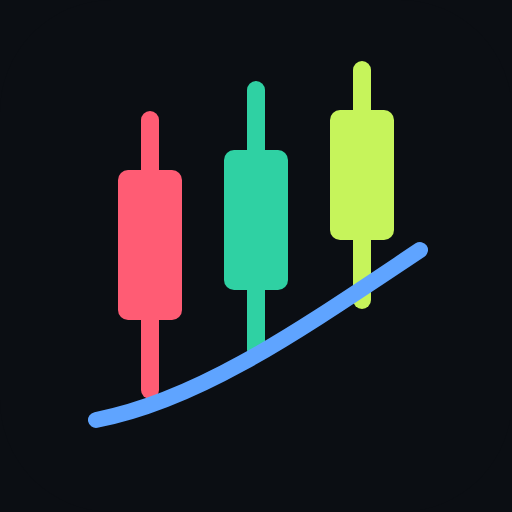
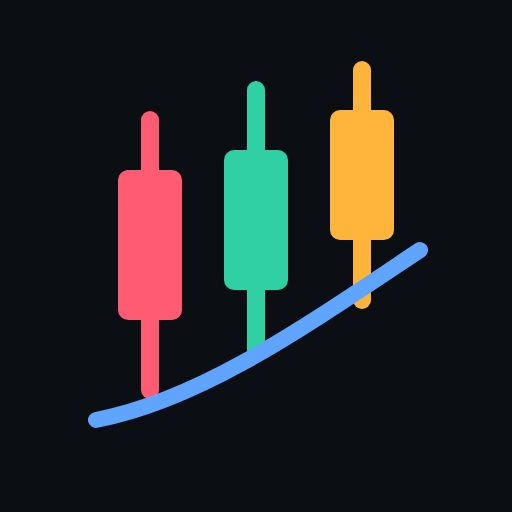
Terminal-amber accent, two-tap confirms instead of browser dialogs
Claude-Session: https://claude.ai/code/session_01AzD1ngALz3NvkMtRHuZZ69

Changed region(s): [[0.625, 0.0938, 0.7812, 0.625]]

diff --git a/src/ui/screens/Log.tsx b/src/ui/screens/Log.tsx
@@ -4,6 +4,7 @@ import { INSTRUMENTS, INSTRUMENT_ORDER, SYSTEM_ORDER } from '../../engine/types'
 import type { InstrumentId, SystemId } from '../../engine/types';
 import { LOTS } from '../../game/account';
 import { update, useGame } from '../../game/store';
+import { ConfirmButton } from '../common';
 import type { LiveTrade } from '../../game/store';
 
 const GATE_TRADES = 30;
@@ -64,14 +65,7 @@ export function Log() {
                 </div>
                 <div className="live-right">
                   <span className={t.r === null ? '' : t.r >= 0 ? 'up-text' : 'down-text'}>{t.r === null ? 'open' : `${t.r >= 0 ? '+' : ''}${t.r}R`}</span>
-                  <button
-                    className="link"
-                    onClick={() => {
-                      if (confirm('Delete this entry?')) update((st) => ({ live: st.live.filter((x) => x.id !== t.id) }));
-                    }}
-                  >
-                    delete
-                  </button>
+                  <ConfirmButton className="link" label="delete" confirmLabel="tap to delete" onConfirm={() => update((st) => ({ live: st.live.filter((x) => x.id !== t.id) }))} />
                 </div>
               </li>
             );

diff --git a/src/ui/screens/Stats.tsx b/src/ui/screens/Stats.tsx
@@ -7,6 +7,7 @@ import type { Library } from '../../data/load';
 import { money, valuePerUnit } from '../../game/account';
 import { systemProgress } from '../../game/progress';
 import { exportState, importState, resetAll, update, useGame } from '../../game/store';
+import { ConfirmButton } from '../common';
 import type { Mode } from '../../game/store';
 
 const MODE_NAMES: Record<Mode, string> = { spot: 'Spot it', replay: 'Replay', checklist: 'Checklist', place: 'Place it', quiz: 'Exam' };
@@ -182,14 +183,7 @@ export function Stats({ lib }: { lib: Library }) {
               }
             }}
           />
-          <button
-            className="btn danger"
-            onClick={() => {
-              if (confirm('Erase all progress, trades and the live log?')) resetAll();
-            }}
-          >
-            Reset everything
-          </button>
+          <ConfirmButton className="btn danger" label="Reset everything" confirmLabel="Tap again to erase all progress" onConfirm={resetAll} />
         </div>
         {msg ? <p className="hint">{msg}</p> : null}
       </section>

diff --git a/src/ui/Chart.tsx b/src/ui/Chart.tsx
@@ -111,8 +111,8 @@ export function Chart({ s, upto, digits, showDate, lines = [], marks = [], diver
     const e20 = line(css('--ema20'), 2);
     const e50 = line(css('--ema50'), 2);
     const e200 = line(css('--ema200'), 1, LineStyle.Dashed);
-    const shadeHi = line(css('--warn'), 2);
-    const shadeLo = line(css('--warn'), 2);
+    const shadeHi = line(css('--sys-session'), 2);
+    const shadeLo = line(css('--sys-session'), 2);
     const divPrice = line(css('--text'), 2, LineStyle.Dashed);
     const rsi = chart.addSeries(LineSeries, { color: css('--rsi'), lineWidth: 2, priceLineVisible: false, lastValueVisible: true, priceFormat: { type: 'price', precision: 0, minMove: 1 } }, 1);
     const divRsi = chart.addSeries(LineSeries, { color: css('--text'), lineWidth: 2, lineStyle: LineStyle.Dashed, priceLineVisible: false, lastValueVisible: false, crosshairMarkerVisible: false }, 1);

diff --git a/src/ui/common.tsx b/src/ui/common.tsx
@@ -198,3 +198,26 @@ export function Loading({ text = 'Loading chart…' }: { text?: string }) {
     </div>
   );
 }
+
+/** Two-tap confirm: browser confirm() dialogs are blocked in some hosts. */
+export function ConfirmButton({ className, label, confirmLabel, onConfirm }: { className: string; label: string; confirmLabel: string; onConfirm: () => void }) {
+  const [armed, setArmed] = useState(false);
+  useEffect(() => {
+    if (!armed) return;
+    const id = setTimeout(() => setArmed(false), 3000);
+    return () => clearTimeout(id);
+  }, [armed]);
+  return (
+    <button
+      className={armed ? `${className} armed` : className}
+      onClick={() => {
+        if (armed) {
+          setArmed(false);
+          onConfirm();
+        } else setArmed(true);
+      }}
+    >
+      {armed ? confirmLabel : label}
+    </button>
+  );
+}

diff --git a/src/styles.css b/src/styles.css
@@ -7,17 +7,18 @@
   --text: #eef2f7;
   --muted: #8792a2;
   --faint: #5b6575;
-  --accent: #c6f45b;
-  --accent-ink: #0b0e13;
+  /* Trading-terminal amber on graphite. Candles keep the market's own green/red. */
+  --accent: #ffb43c;
+  --accent-ink: #1a1206;
   --up: #2fd1a3;
-  --down: #ff5c74;
-  --warn: #ffc046;
+  --down: #ff4d6d;
+  --warn: #ffb43c;
   --ema20: #5fa4ff;
-  --ema50: #ff9f43;
+  --ema50: #ff7a59;
   --ema200: #5d6778;
   --rsi: #b18cff;
   --sys-ema: #5fa4ff;
-  --sys-sr: #ffc046;
+  --sys-sr: #5fd0e0;
   --sys-rsi: #b18cff;
   --sys-session: #ff7ab8;
   --r: 18px;
@@ -1280,4 +1281,12 @@ b {
     animation: none !important;
     transition: none !important;
   }
+}
+.armed {
+  color: var(--down);
+  font-weight: 700;
+}
+:focus-visible {
+  outline: 2px solid var(--accent);
+  outline-offset: 2px;
 }

diff --git a/src/ui/overlays.ts b/src/ui/overlays.ts
@@ -11,7 +11,7 @@ export function revealOverlays(e: Evaluation | null, out: Outcome | null, showTr
   let shade: { from: number; to: number; hi: number; lo: number } | undefined;
   if (!e) return { lines, marks, divergence, shade };
 
-  if (e.marks.level !== undefined) lines.push({ price: e.marks.level, color: v('--warn'), title: 'Level', dashed: true });
+  if (e.marks.level !== undefined) lines.push({ price: e.marks.level, color: v('--sys-sr'), title: 'Level', dashed: true });
   if (e.marks.rangeHigh !== undefined && e.marks.rangeFrom !== undefined) {
     shade = { from: e.marks.rangeFrom, to: e.i, hi: e.marks.rangeHigh, lo: e.marks.rangeLow! };
   }
